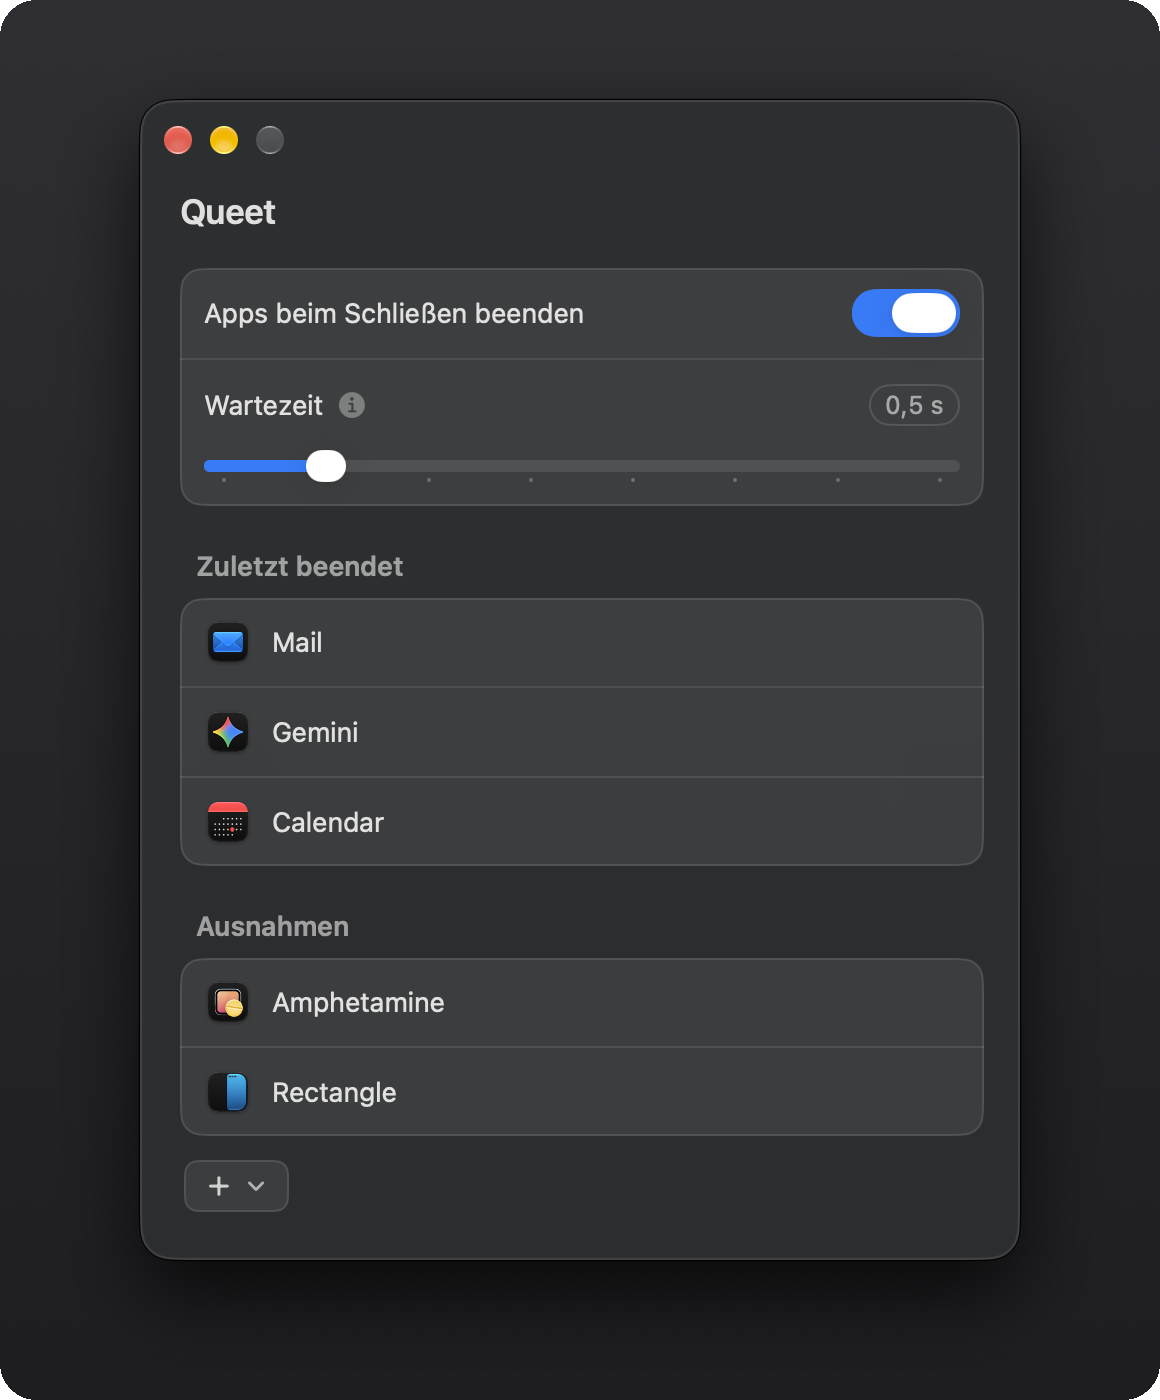
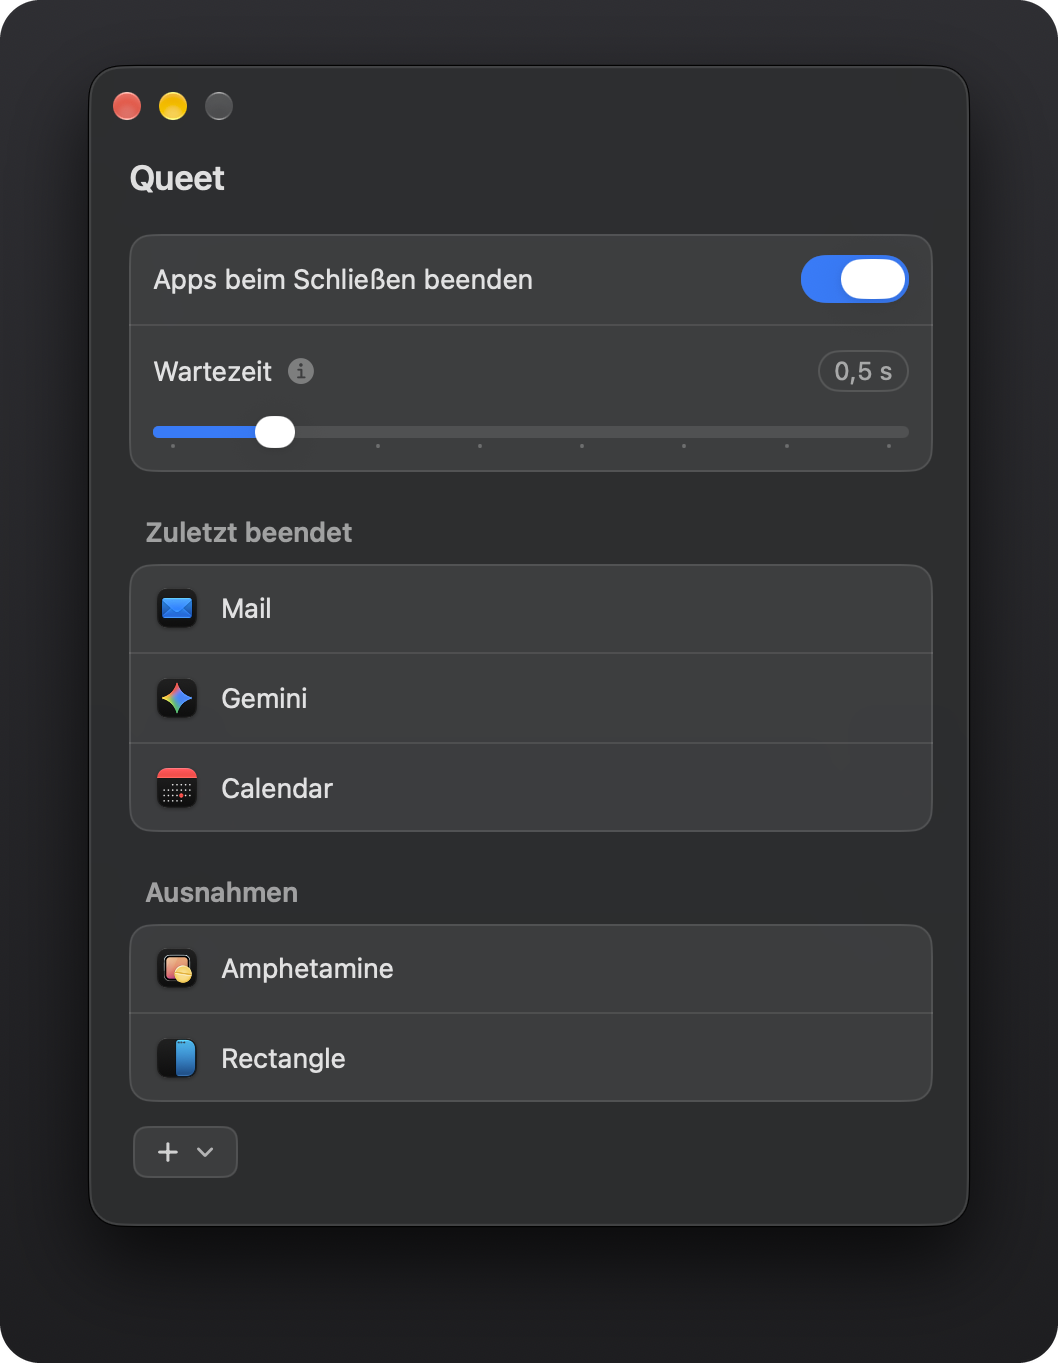
Bilder enger und nebeneinander, Rechtsklick zum Löschen

diff --git a/README.md b/README.md
@@ -17,7 +17,8 @@
 </p>
 
 <p align="center">
-  <img src="Bilder/einstellungen.png" width="380" alt="Einstellungen von Queet">
+  <img src="Bilder/einstellungen.png" width="45.6%" alt="Einstellungen von Queet">
+  <img src="Bilder/rechtsklick.png" width="51.4%" alt="Rechtsklick auf eine App im Finder mit „App beenden“">
 </p>
 
 ## Was Queet anders macht
@@ -30,11 +31,9 @@
 
 ## App beenden per Rechtsklick
 
-<p align="center">
-  <img src="Bilder/rechtsklick.png" width="380" alt="Rechtsklick auf eine App im Finder mit „App beenden“">
-</p>
+Du willst eine App löschen, aber sie läuft noch im Hintergrund? Rechtsklick auf die App im Finder, dann „App beenden“. Queet beendet sie zuerst normal und, wenn sie hängt, hart, samt allem, was von ihr noch läuft. Danach kannst du sie einfach in den Papierkorb legen.
 
-Rechtsklick auf eine App im Finder, dann „App beenden“. Queet beendet sie zuerst normal. Hängt sie, beendet Queet sie hart, samt allem, was von ihr noch im Hintergrund läuft. Bei einem Sichern-Dialog wartet Queet, bis du dich entschieden hast.
+Bei einem Sichern-Dialog wartet Queet, bis du dich entschieden hast.
 
 ## Installieren
 
